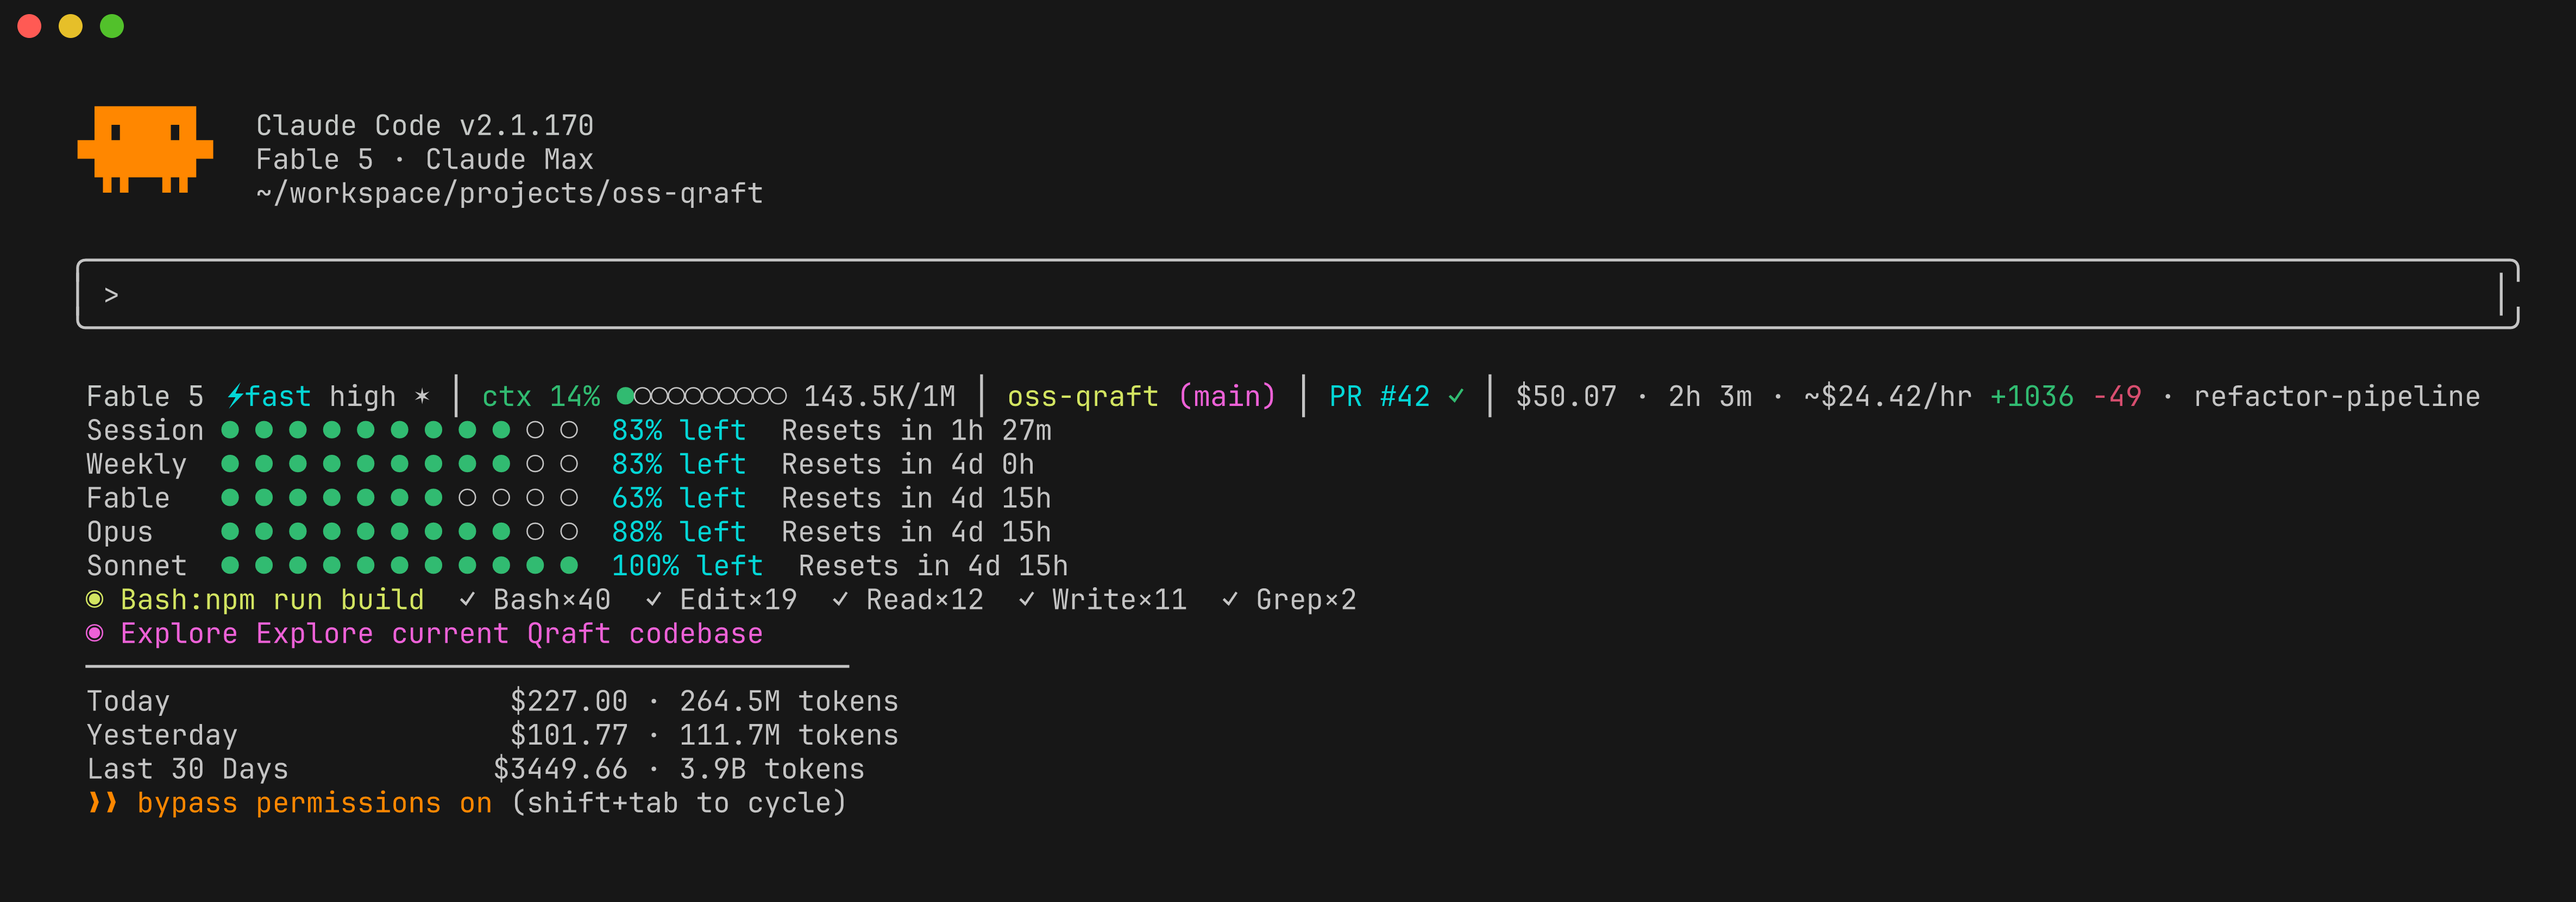
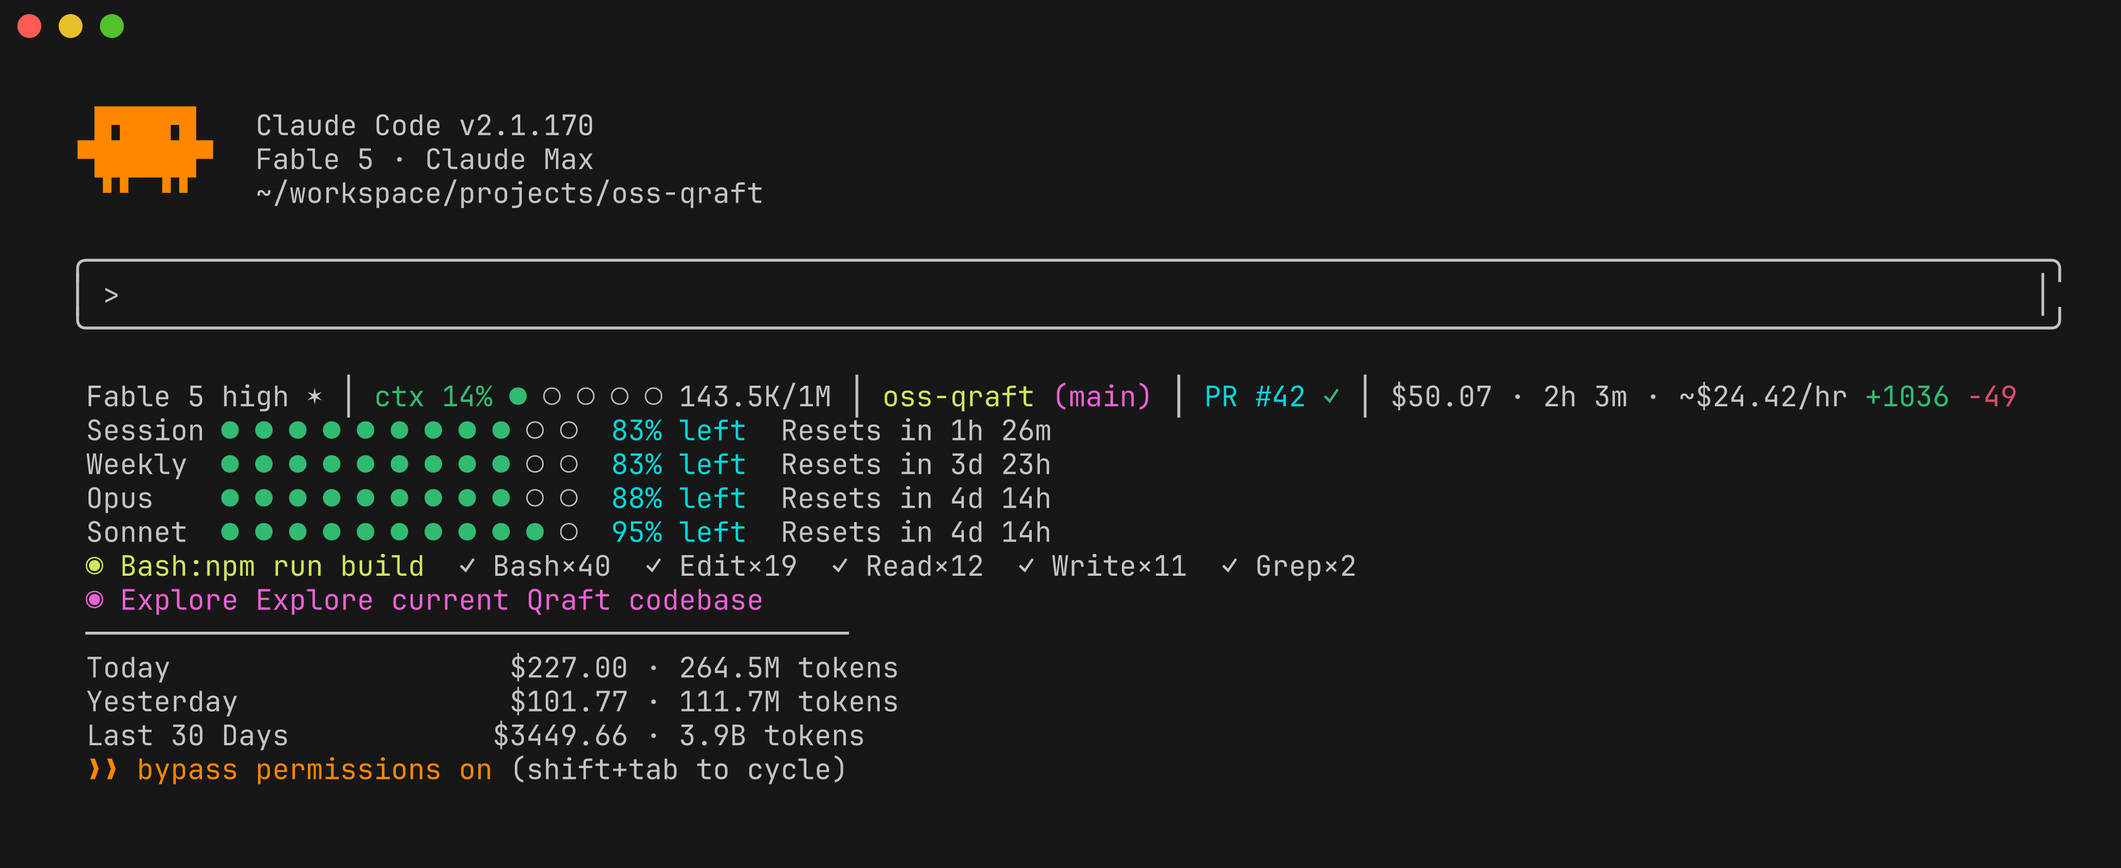
Declutter header: lighter context bar, accurate sample, opt-in session name
- Context gauge: 10 packed dots → 5 spaced dots (matches rate-limit bar style)
- Session name now opt-in (SHOW_SESSION_NAME, default off) — was cluttering line 1
- Screenshot accuracy: drop the fictional Fable rate bucket (no such API key)
  and the ⚡fast badge (fast mode is Opus-only, never set on a Fable session);
  show the real Opus + Sonnet buckets ordered by capability
- README/conf: document SHOW_SESSION_NAME, correct bucket note
- Bump to 1.4.1

diff --git a/README.md b/README.md
@@ -38,12 +38,11 @@ This statusline fixes all of that.
 ## What it shows
 
 ```
-  Fable 5 ⚡fast high ✦ │ ctx 14% ●○○○○○○○○○ 143.5K/1M │ oss-qraft (main)* ↑2 │ PR #42 ✓ │ $50.07 · 2h 3m · ~$24/hr +1036 -49 · refactor-pipeline
+  Fable 5 high ✦ │ ctx 14% ● ○ ○ ○ ○ 143.5K/1M │ oss-qraft (main) │ PR #42 ✓ │ $50.07 · 2h 3m · ~$24/hr +1036 -49
   Session ● ● ● ● ● ● ● ● ○ ○  83% left  Resets in 1h 27m
   Weekly  ● ● ● ● ● ● ● ● ○ ○  83% left  Resets in 3d 23h
-  Fable   ● ● ● ● ● ● ● ○ ○ ○  63% left  Resets in 4d 15h
   Opus    ● ● ● ● ● ● ● ● ● ○  88% left  Resets in 4d 15h
-  Sonnet  ● ● ● ● ● ● ● ● ● ●  100% left  Resets in 4d 15h
+  Sonnet  ● ● ● ● ● ● ● ● ● ○  95% left  Resets in 4d 15h
   ✓ Bash×40  ✓ Edit×19  ✓ Read×12  ✓ Write×11  ✓ Grep×2
   ◐ Explore Explore current Qraft codebase
   ─────────────────────────────────────────────
@@ -54,7 +53,7 @@ This statusline fixes all of that.
 
 | Section | Details |
 |---------|---------|
-| **Header** | Model + badges (⚡ fast mode, effort level, ✦ thinking), context % with mini-bar and token count (143.5K/1M), project, git branch + dirty + ↑ahead ↓behind, PR # + review state (clickable), session cost · duration · ~$/hr burn rate, lines +/-, session name |
+| **Header** | Model + badges (⚡ fast mode, effort level, ✦ thinking), context % with mini-bar and token count (143.5K/1M), project, git branch + dirty + ↑ahead ↓behind, PR # + review state (clickable), session cost · duration · ~$/hr burn rate, lines +/-, optional session name |
 | **Compaction Warning** | Red warning when context exceeds critical threshold |
 | **Rate Limits** | Session (5h) / Weekly (7d) / per-model buckets (Opus, Sonnet, Fable, … auto-detected) / Extra usage — gauge bar + % left + reset time |
 | **Tool Activity** | Running tools, completed tool counts, active agents |
@@ -75,9 +74,9 @@ Badges only appear when the data exists — e.g. `⚡fast` shows only with fast 
 
 ### Per-model rate limit buckets
 
-Model-specific weekly buckets (`Fable`, `Opus`, `Sonnet`, `Haiku`, …) are **auto-detected** from the OAuth usage API — whatever buckets Anthropic reports for your plan show up automatically, so new models appear without a script update. They are ordered by model capability (most capable first), and buckets the API reports as `null` (inactive for your plan) are hidden. An `Extra` gauge appears when extra usage credits are enabled on your account.
+Model-specific weekly buckets are **auto-detected** from the OAuth usage API — whatever buckets Anthropic reports for your plan show up automatically, so new models appear without a script update. They are ordered by model capability (most capable first, `Fable` > `Opus` > `Sonnet` > `Haiku`), and buckets the API reports as `null` (inactive for your plan) are hidden. An `Extra` gauge appears when extra usage credits are enabled on your account.
 
-> Note: which model buckets exist depends on your plan and usage — most accounts only see a subset (e.g. just `Sonnet`). The screenshot above shows the full layout for illustration.
+> Note: which buckets exist depends on your plan and usage. Today the API exposes `Opus` and `Sonnet` sub-limits (shown above); many accounts only see one. If Anthropic adds a dedicated bucket for a newer model, it appears automatically at the top — no update needed.
 
 ### Color coding
 
@@ -159,6 +158,7 @@ SHOW_CONTEXT_BAR=true
 SHOW_BURN_RATE=true
 SHOW_GIT_AHEAD=true
 SHOW_LINKS=true
+SHOW_SESSION_NAME=false
 
 # Context thresholds
 CONTEXT_WARN_PCT=30       # Yellow warning
@@ -174,10 +174,11 @@ DAILY_BUDGET=0
 | `SHOW_TOOLS` | `true` | Tool activity from transcript |
 | `SHOW_AGENTS` | `true` | Agent activity from transcript |
 | `SHOW_CCUSAGE` | `true` | Daily/monthly token cost stats |
-| `SHOW_CONTEXT_BAR` | `true` | Mini gauge next to ctx % |
+| `SHOW_CONTEXT_BAR` | `true` | Small 5-dot gauge next to ctx % |
 | `SHOW_BURN_RATE` | `true` | ~$/hr spend rate in the header |
 | `SHOW_GIT_AHEAD` | `true` | ↑ahead ↓behind vs upstream |
 | `SHOW_LINKS` | `true` | Clickable PR link (OSC 8; auto-off in tmux) |
+| `SHOW_SESSION_NAME` | `false` | Show the `/rename` session name in the header |
 | `CONTEXT_WARN_PCT` | `30` | Context % threshold for yellow |
 | `CONTEXT_CRIT_PCT` | `70` | Context % threshold for red + compaction warning |
 | `DAILY_BUDGET` | `0` | Daily budget alert in USD (0 = disabled) |
